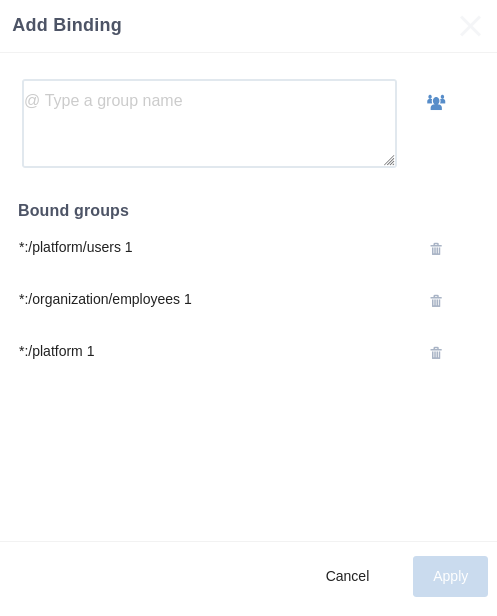
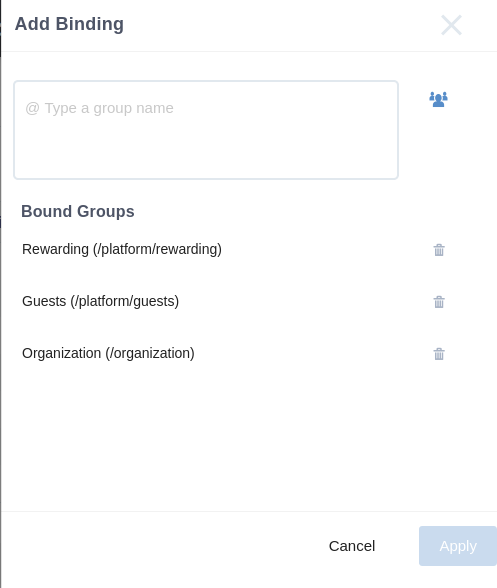
Space groups binding feature: Add steps for remove binding

diff --git a/docs/Administration.rst b/docs/Administration.rst
@@ -2594,24 +2594,38 @@ A confirmation popup appears to confirm deletion of the space or to cancel
 
 Space binding
 ````````````````
+.. _AddBindingSteps:
+
+**Add binding steps**
 
 You can, as an administrator, bind groups to a space i.e. map all their members to the space.
 To do so, you should click on the "Space binding" icon |image354| of the space in which you want to add group binding.
 
 |image356|
 
-A drawer "Add Binding" appears:
+- |image361| The "Space binding" icon in default color means that the space hasn't yet bindings with any group
+- |image362| The "Space binding" icon in green color means that the space has already groups bindings.
 
-|image355|
-
-The drawer contains these components:
+Having clicked on the "Space binding" icon, a drawer appears having these components:
 
 -  A text field allowing you to type groups names
 -  "Select from list" icon allowing to open a second level drawer
--  Bound groups section listing the already bound groups to the space
--  "Apply" button which remains in disabled status until at least one group is selected
+-  "Apply" button which remains disabled until at least one group is selected
 -  "Cancel" button allowing to clear the text field and close the drawer
 -  A cross icon to close the drawer
+-  **Bound groups** section listing the already bound groups to the space only if you clicked on 
+   colored "Space binding" icon
+   
+Drawer of a space without existing bindings:   
+
+|image355|
+
+.. _coloredicondrawer:
+
+Drawer of a space with existing bindings:   
+
+|image363|
+
 
 When you type some characters in the text field, suggestions are proposed to facilitate the groups selection:
 
@@ -2623,6 +2637,27 @@ Having selected at least one group, the "Apply" button turns to enabled status. 
 message appears warning you about the process to start.
 
 |image358|
+
+If you click on ``Cancel`` button, nothing happens and the "Add binding" drawer is displayed again.
+If you click on ``Yes, I am sure`` button, the add binding process will start when its execution time comes.
+More details in :ref:`this section <AddBinding>` to learn how users add process is executed.
+
+
+.. _RemoveBindingSteps:
+
+**Remove binding steps**
+
+If you want to remove the group's users mapping from a space, you just need to follow these steps:
+
+- Click on the colored icon |image364| of the corresponding space ==> The :ref:`drawer <coloredicondrawer>` appears
+- Click on the delete icon |image365| of the group you want to remove its members from the space ==>
+  A confirmation message appears containing the group's name with a ``Cancel`` and ``Confirm`` buttons
+  
+  |image366|
+  
+- If you click on ``Cancel`` button nothing happens and the drawer is displayed
+- If you click on ``Confirm`` button, then the remove binding process will be executed when it's runtine comes.
+  More details about the users removal through this :ref:`section <RemoveBinding>`
 
 
 .. _AdministratingSpaces.Permissions:
@@ -5720,9 +5755,16 @@ The following image shows the screen when an anonymous user accesses
 .. |image352| image:: images/sharenews/header_block.png
 .. |image353| image:: images/sharenews/show_in_page.png
 .. |image354| image:: images/platform/SpaceBindingIcon.png
-.. |image355| image:: images/platform/AddBindingDrawer.png
+.. |image355| image:: images/platform/AddBindingDrawerDefault.png
 .. |image356| image:: images/platform/spaceBinding.png
 .. |image357| image:: images/platform/GroupsSuggester.png
-.. |image358| image:: images/platform/confirmationPopup.png
+.. |image358| image:: images/platform/AddconfirmationPopup.png
 .. |image359| image:: images/platform/boundUserLabel.png
 .. |image360| image:: images/platform/LeaveDisabled.png
+.. |image361| image:: images/platform/defaultIcon.png
+.. |image362| image:: images/platform/coloredIcon.png
+.. |image363| image:: images/platform/AddBindingDrawer.png
+.. |image364| image:: images/platform/coloredIcon.png
+.. |image365| image:: images/platform/deleteIcon.png
+.. |image366| image:: images/platform/DeleteconfirmationMessage.png
+
